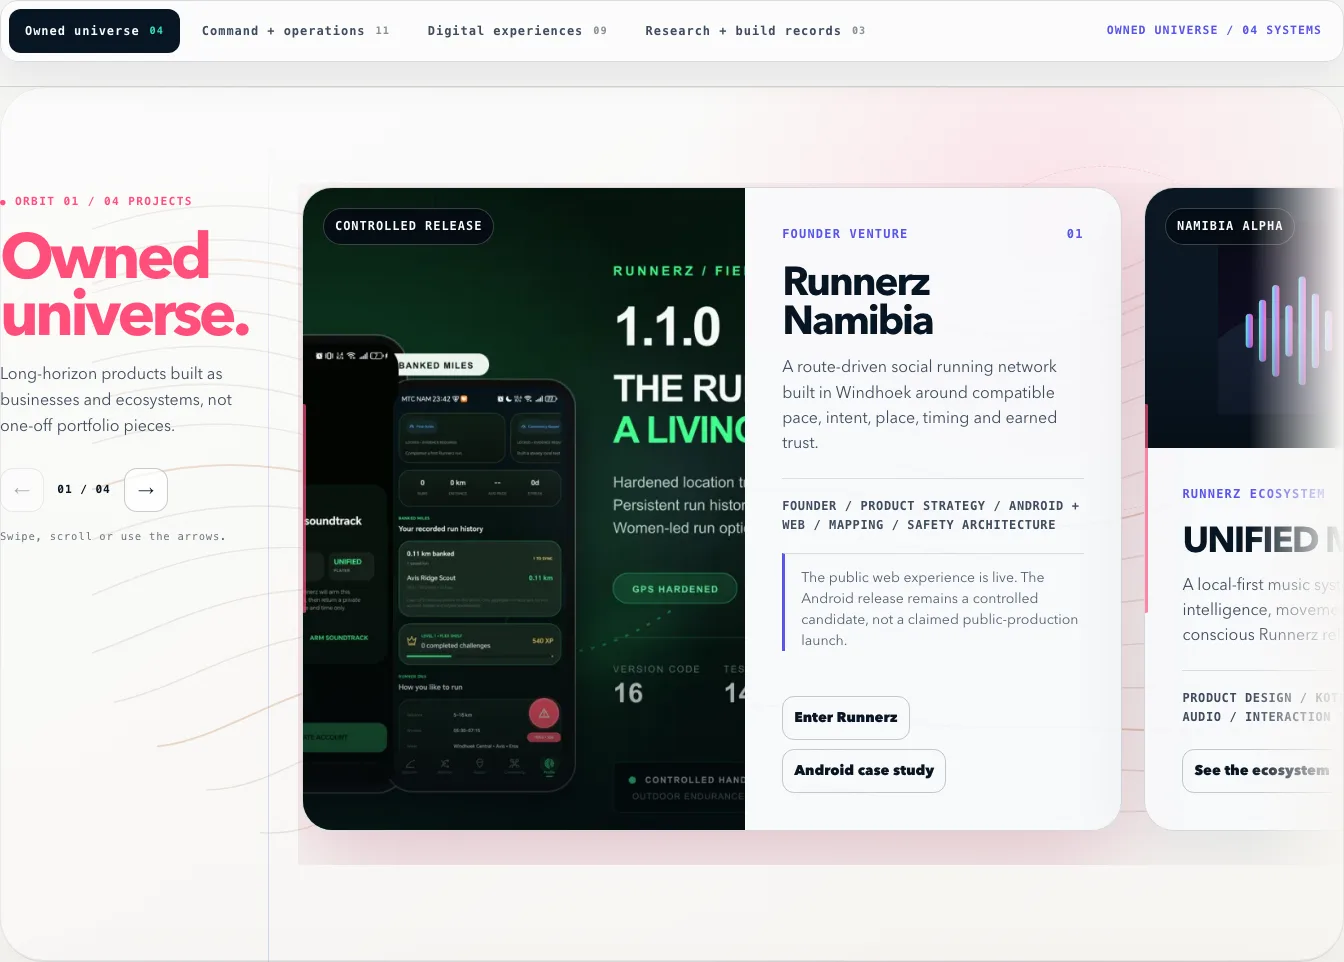
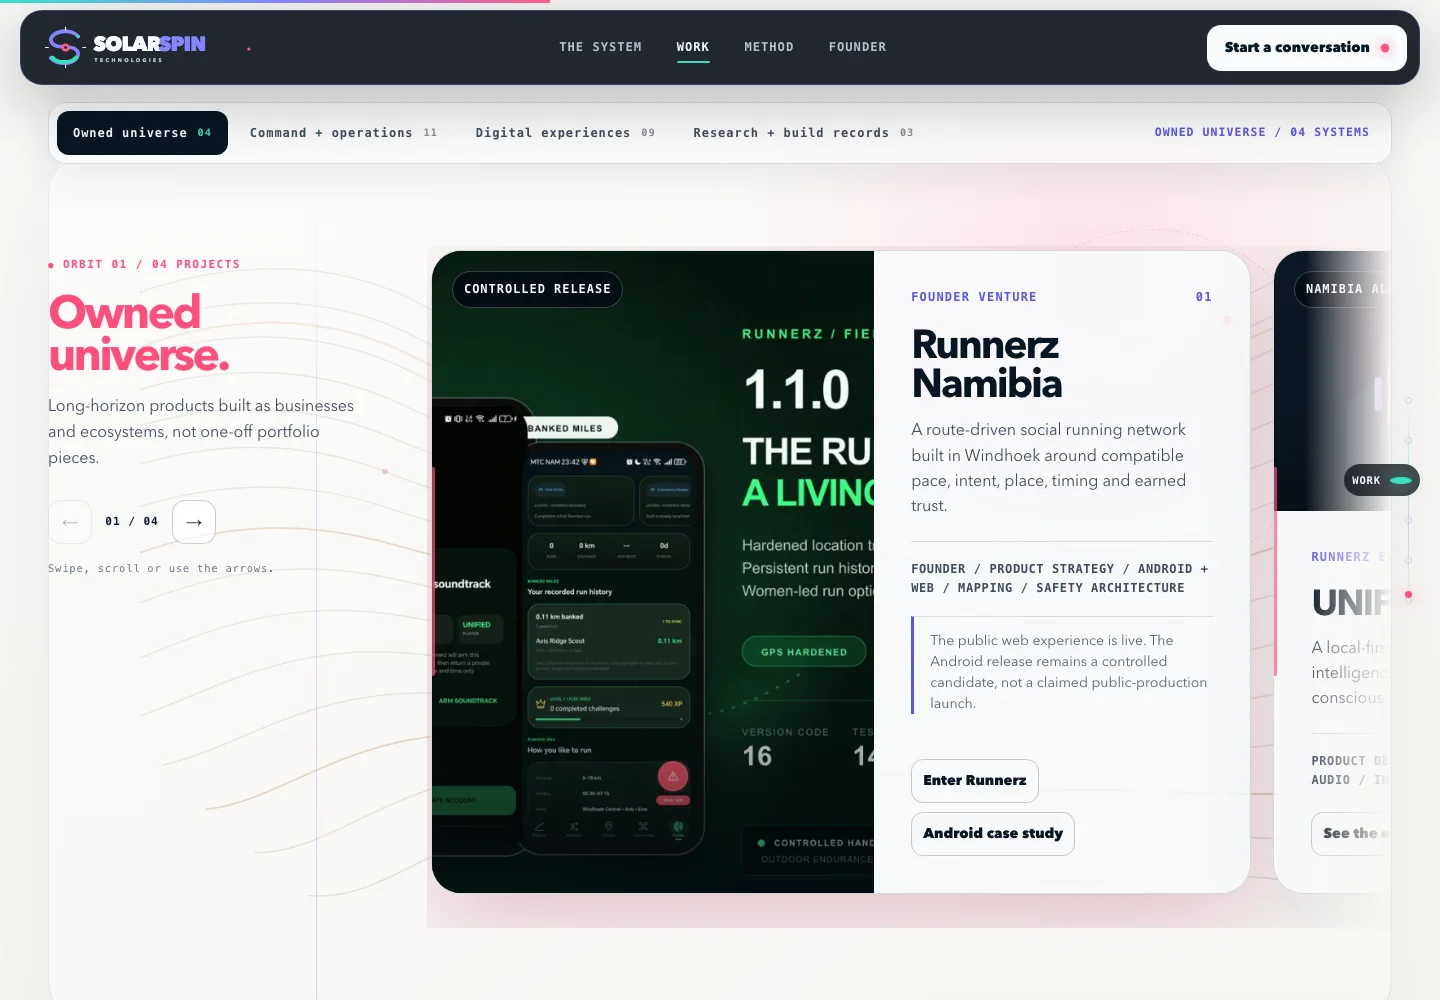
Document ignition and cosmic finale

diff --git a/README.md b/README.md
@@ -36,7 +36,7 @@ The result is a responsive, dependency-free digital experience built around one 
 | Origin | Windhoek, Namibia |
 | Launch | October 2026 |
 | Public work | 27 carefully bounded project stories across four smart orbits |
-| Experience model | Interactive system map, project observatory, method explorer and guided contact pathway |
+| Experience model | Branded ignition, interactive system map, project observatory, guided contact pathway and cosmic-address finale |
 | Runtime | Static HTML, CSS and JavaScript with no framework or runtime dependency |
 | QA coverage | Six responsive profiles from 1440 desktop to 320 mobile, including touch and 844 × 390 landscape |
 | Live site | [solarspin-namibia.pages.dev](https://solarspin-namibia.pages.dev/) |
@@ -47,14 +47,18 @@ The interface treats SolarSpin as a small universe with a clear centre. Research
 
 ![SolarSpin experience architecture diagram](assets/experience-system.svg)
 
-The experience moves through six chapters:
+A short branded ignition opens eight chapters:
 
 1. **The centre:** a live orbital hero introduces the company promise.
 2. **The system:** a relationship map explains how founder, company, ventures, client work, research and internal systems connect.
-3. **The proof:** project cards make the public work inspectable, including its real release boundaries.
-4. **The method:** a five-stage rail shows how SolarSpin moves from field evidence to a system that can be handed over.
-5. **The founder:** Freeman's reason for building the company becomes part of the product story.
-6. **The invitation:** visitors identify the problem they are carrying before they make contact.
+3. **The capabilities:** four disciplines turn the promise into a practical offer.
+4. **The proof:** project cards make the public work inspectable, including its real release boundaries.
+5. **The method:** a five-stage rail shows how SolarSpin moves from field evidence to a system that can be handed over.
+6. **The founder:** Freeman's reason for building the company becomes part of the product story.
+7. **The invitation:** visitors identify the problem they are carrying before they make contact.
+8. **The cosmic address:** the journey resolves from the Milky Way to Windhoek, then signs off with one final branded beat.
+
+![SolarSpin's short Igniting the System opening sequence](assets/screenshots/ignition-intro.webp)
 
 ## A visual language with purpose
 
@@ -87,15 +91,27 @@ The Field Atlas layer is connected to the interface rather than running as a sep
 - decorative layers are paint-contained, pointer-inert and removed from forced-colors mode; coarse-pointer layouts also shed selected blur effects
 - reduced-motion mode stops the continuous field animations instead of merely slowing them down
 
+![SolarSpin interactive cosmic address beginning at the Milky Way](assets/screenshots/cosmic-address.webp)
+
+The footer is now a final interactive chapter. Six keyboard-addressable stops trace the public origin story from the Milky Way through the Solar System, Earth, Africa and Namibia to Windhoek. The visual and readout change together, while the route remains understandable as labelled controls and text.
+
 ![SolarSpin footer with a live Windhoek CAT clock, coordinates and transmission status](assets/screenshots/windhoek-transmission.webp)
 
-The footer closes the journey with a live Windhoek transmission: current Central Africa Time, the WHK.NA coordinate marker and a restrained system-status signal. Its clock is informative but not required for navigation or contact.
+The address resolves into a live Windhoek transmission: current Central Africa Time, the WHK.NA coordinate marker and a restrained system-status signal. The clock is informative but not required for navigation or contact.
+
+![The final SolarSpin Experience closing statement](assets/screenshots/experience-finale.webp)
+
+The final panel does not introduce another task. It simply lands the journey with the line: **“You’ve now had a SolarSpin Experience.”**
 
 Verification grew with the visual system. The automated record now covers six responsive profiles: 1440 desktop, 768 tablet, touch mobile at 390, 360 and 320 pixels, and an 844 × 390 touch landscape run. Separate checks confirm horizontal rail movement without blocking vertical touch scrolling, zero continuing infinite animations under reduced motion, visible essentials and zero overflow in forced-colors mode, and the full 27-project/four-orbit experience with fallback navigation and email when JavaScript is unavailable.
 
 ## The interface behaves like the company
 
 The website does not make visitors read a long manifesto before they understand SolarSpin. Each important idea can be touched, navigated or explored.
+
+### Branded ignition
+
+The experience opens with a 1.48-second, pointer-inert ignition built from the SolarSpin badge, orbit lines, Windhoek coordinates and a clear progress signal. It releases the page automatically and is skipped entirely when reduced motion is requested, forced colours are active or JavaScript is unavailable.
 
 ### Orbital hero
 
@@ -127,11 +143,16 @@ The method rail turns a delivery philosophy into five inspectable decisions: Fie
 
 Instead of opening with a blank form, the final interaction asks what kind of problem the visitor is carrying. The selected path shapes the prompt and the resulting email subject. The visitor arrives at contact with a clearer starting point.
 
+### Cosmic address and closing beat
+
+The cosmic address behaves as a six-stop tab sequence with a shared visual and textual readout. Arrow-key movement, Home and End support, selected-state exposure and full-size touch controls make the interaction inspectable beyond its animation. The finale that follows is static, readable content rather than another gate.
+
 ## Motion with an off switch
 
 Motion gives the experience character, but it is never required to reach the content.
 
 - a canvas particle field establishes depth in the hero
+- a short badge-and-orbit ignition establishes the brand, then releases the interface
 - orbital nodes and satellites make system relationships visible
 - reveal sequences establish reading order
 - project cards tilt only on capable pointer devices
@@ -140,7 +161,8 @@ Motion gives the experience character, but it is never required to reach the con
 - magnetic controls add tactile feedback to high-value actions
 - the header, progress signal and navigation react to position
 - the legacy seal opens a focused founder note
-- `prefers-reduced-motion` removes the canvas and reveal dependency
+- cosmic-address layers transition only when a visitor changes the selected stop
+- `prefers-reduced-motion` removes the ignition, canvas and reveal dependency
 - essential content remains available when JavaScript is disabled
 - animation pauses when the document is not visible
 - chapter animation remains paused until its own section is in view
@@ -159,6 +181,10 @@ Motion gives the experience character, but it is never required to reach the con
 
 The mobile experience is recomposed around a vertical rhythm. The hero separates the promise from the orbital control. Navigation becomes an intentional orbit menu. Touch targets expand, supporting copy gets more room, and the founder chapter keeps its editorial impact at 390, 360 and 320 pixels as well as short landscape viewports.
 
+![SolarSpin mobile Project Observatory with its active orbit control and unobscured heading](assets/screenshots/project-orbit-mobile.webp)
+
+The Project Observatory fix is explicit: selecting an orbit scrolls its active control into view, places the orbit heading below the fixed navigation stack and keeps the heading inside its column at every tested width. The mobile menu still closes on Escape and restores page scrolling.
+
 The result was checked for horizontal overflow across all six responsive profiles. Every recorded run, including 320-pixel mobile and 844 × 390 landscape, reported zero overflow.
 
 ## Accessibility and resilience
@@ -171,8 +197,10 @@ The release includes:
 - semantic buttons for interactive controls
 - `aria-pressed`, `aria-selected`, `aria-expanded` and named navigation regions
 - live status text for hero orbit, architecture, method and pathway changes, plus visible project-rail position
+- a shared textual readout for the selected cosmic-address stop
 - Escape-key support for menus and the founder dialog
-- reduced-motion handling
+- keyboard navigation for the method and cosmic-address tab sequences
+- reduced-motion handling that skips the ignition and stops continuing loops
 - forced-colors handling that removes non-essential scenery and preserves the core chapters
 - meaningful image alternatives and hidden decorative imagery
 - a JavaScript-free shortcut route and visible essential content
@@ -213,10 +241,11 @@ That small architecture keeps the company experience portable and easy to hand o
 | Missing images | None in the recorded QA run |
 | Responsive profiles | Six passed: 1440, 768, 390, 360, 320 and 844 × 390 landscape |
 | Horizontal overflow | Zero in all six responsive profiles, forced-colors mode and no-JavaScript mode |
-| Mobile navigation | Passed |
+| Intro release | Hidden, transparent and pointer-inert after the short ignition; skipped for reduced motion and no JavaScript |
+| Mobile navigation and orbit headings | Menu open/close passed; active orbit controls remained visible and headings reported zero overflow or fixed-header obstruction |
 | Touch and Project Observatory | 27 cards, four orbits, deep links, rail controls, horizontal touch movement and vertical page scrolling passed |
-| Interactive readouts | Passed |
-| Performance guardrails | 976 DOM nodes, at most eight backdrop filters and 2,124,942 initial transfer bytes in the recorded run |
+| Interactive readouts | Hero, architecture, method, pathway and six-stop cosmic address passed, including keyboard state changes |
+| Performance guardrails | 1,099 DOM nodes, at most eight backdrop filters, 2,144,317 initial transfer bytes and at most nine simultaneous infinite animations in the recorded run |
 | Reduced-motion mode | Essential content visible, canvas disabled and zero infinite animations continuing |
 | Forced-colors mode | Essential content visible with zero horizontal overflow |
 | JavaScript-disabled mode | 27 projects and four orbits visible, with fallback navigation and direct email |
@@ -258,8 +287,12 @@ This repository is deliberately separate from the private production repository.
 - [`assets/experience-system.svg`](assets/experience-system.svg) explains the experience architecture.
 - [`assets/design-language.svg`](assets/design-language.svg) records the colour and visual roles.
 - [`assets/screenshots`](assets/screenshots) contains selected, compressed QA evidence.
+- [`assets/screenshots/ignition-intro.webp`](assets/screenshots/ignition-intro.webp) records the short branded opening.
 - [`assets/screenshots/field-atlas.webp`](assets/screenshots/field-atlas.webp) records the new orbit terrain treatment.
+- [`assets/screenshots/project-orbit-mobile.webp`](assets/screenshots/project-orbit-mobile.webp) records the corrected mobile orbit landing and navigation state.
+- [`assets/screenshots/cosmic-address.webp`](assets/screenshots/cosmic-address.webp) records the Milky Way-to-Windhoek address sequence.
 - [`assets/screenshots/windhoek-transmission.webp`](assets/screenshots/windhoek-transmission.webp) records the live-location footer treatment.
+- [`assets/screenshots/experience-finale.webp`](assets/screenshots/experience-finale.webp) records the final branded sign-off.
 - [`docs/visual-system.md`](docs/visual-system.md) documents the design system.
 - [`docs/interaction-architecture.md`](docs/interaction-architecture.md) explains progressive interaction and technical choices.
 - [`docs/accessibility-and-qa.md`](docs/accessibility-and-qa.md) records accessibility and verification scope.
@@ -277,5 +310,7 @@ Run the local verification:
 This case study and the experience it documents were designed and delivered by **[SolarSpin Technologies](https://solarspin-namibia.pages.dev/)**, founded by [Freeman Paul Ipumbu](https://freeman-ipumbu.pages.dev/) in Windhoek, Namibia.
 
 The source is private. The thinking is visible. The standard is public.
+
+> **You’ve now had a SolarSpin Experience.**
 
 © 2026 SolarSpin Technologies. See [LICENSE](LICENSE) for the repository terms.

diff --git a/docs/accessibility-and-qa.md b/docs/accessibility-and-qa.md
@@ -24,19 +24,23 @@ The automated run also exercised three separate resilience modes at 390 × 844: 
 - all inspected images complete with natural dimensions
 - no nameless buttons
 - no blank external links missing a relationship declaration
+- the ignition released the interface as hidden, transparent and pointer-inert in every standard profile
+- six cosmic-address controls present, with no undersized or clipped control in any profile
+- no project-orbit or primary section heading overflow in any profile
 - no essential content hidden, no canvas and zero continuing infinite animations in reduced-motion mode
 - essential content visible with zero horizontal overflow in forced-colors mode
 - all 27 projects and four project orbits visible without JavaScript
 - visible fallback navigation and direct email available without JavaScript
-- 976 DOM nodes across the responsive profiles
+- 1,099 DOM nodes across the responsive profiles, below the ceiling of 1,100
 - at most eight active backdrop filters, below the ceiling of 10
-- 2,124,942 initial transfer bytes, below the 4 MiB ceiling
+- 2,144,317 initial transfer bytes, below the 4 MiB ceiling
 - at most nine continuing infinite animations in a standard profile, below the ceiling of 12
 - no decorative Field Atlas layer accepted pointer input
 
 ## Interaction checks
 
 - desktop and mobile navigation
+- project-orbit landing position, active-control visibility and heading containment
 - active section state
 - hero orbit changes
 - architecture-node changes
@@ -45,6 +49,7 @@ The automated run also exercised three separate resilience modes at 390 × 844: 
 - project-rail horizontal movement and retained vertical page scrolling on every touch profile
 - method step activation and keyboard navigation
 - contact pathway updates
+- six-stop cosmic-address selection, readout update and keyboard return to the first stop
 - interaction-driven architecture, method and pathway atmosphere state
 - founder dialog open and close paths
 - local asset resolution
@@ -61,17 +66,19 @@ The DOM order follows the story order. Desktop layout never changes the underlyi
 
 Buttons disclose active, selected and expanded state with ARIA attributes. Shared readouts use live regions where a state change would otherwise be silent.
 
+The cosmic address uses a labelled tablist and a shared tab panel. Its selected control, visual state and textual readout move together, so the animated route is not the only state signal.
+
 ### Keyboard
 
-Interactive controls are native buttons or links. Focus receives a clear mint outline. The skip link becomes visible on focus. Escape closes temporary layers.
+Interactive controls are native buttons or links. Focus receives a clear mint outline. The skip link becomes visible on focus. Escape closes temporary layers. The method and cosmic-address sequences expose Arrow, Home and End keyboard paths.
 
 ### Motion
 
-Reduced-motion preferences remove the hero canvas and reveal gating. They also stop the Field Atlas orbit, packet, signal, radar and badge loops. The recorded reduced-motion run reported zero continuing infinite animations, with the same content present and readable.
+Reduced-motion preferences skip the branded ignition, remove the hero canvas and reveal gating, and stop the Field Atlas orbit, packet, signal, radar and badge loops. The recorded reduced-motion run reported zero continuing infinite animations, with the same content and finale present and readable.
 
 ### Forced colors
 
-Decorative atmospheres, terrain horizons, founder scenery and pathway transmissions are removed under forced colors. Essential panels use system colours and borders. The recorded run kept the hero, work, founder and pathway headings visible with zero horizontal overflow.
+Decorative atmospheres, terrain horizons, founder scenery, pathway transmissions and the cosmic illustration are removed under forced colors. Essential panels, cosmic controls and readouts use system colours and borders. The recorded run kept the hero, work, founder and pathway headings visible with zero horizontal overflow.
 
 ### Performance and pointer isolation
 
@@ -83,6 +90,6 @@ Content imagery carries descriptive alternative text. Decorative fields, lines a
 
 ## Honest boundary
 
-These checks support the quality of this release. They do not constitute independent WCAG certification, assistive-technology coverage across every browser, a formal penetration test or a production performance guarantee. The transfer and animation figures are recorded local-run diagnostics, not field-performance measurements.
+These checks support the quality of this release. They do not constitute independent WCAG certification, assistive-technology coverage across every browser, a formal penetration test or a production performance guarantee. The DOM, transfer, filter and animation figures are recorded local-run diagnostics, not field-performance measurements or Lighthouse results.
 
 Before any major content expansion, SolarSpin should repeat keyboard testing, screen-reader spot checks, contrast verification and performance measurement against the final production payload.

diff --git a/docs/interaction-architecture.md b/docs/interaction-architecture.md
@@ -4,11 +4,15 @@
 
 The website begins as a complete semantic document. JavaScript adds state, motion and responsive behaviour after the content is available. If the enhancement layer fails, the visitor still receives the company story, project evidence, contact route and fallback navigation.
 
+The branded ignition is an optional prelude, not a loading gate. It is hidden from the accessibility tree, never accepts pointer input, releases itself after 1.48 seconds and is omitted for reduced motion, forced colours and no-JavaScript delivery.
+
 ## Experience modules
 
 ### Navigation
 
 The fixed header reflects the active section and collapses into a full-screen orbit menu on smaller viewports. The mobile menu declares its expanded state, closes on Escape and restores page scrolling when dismissed.
+
+The Project Observatory has a second, local navigation layer. When an orbit is selected, its control scrolls fully into view and its heading lands below the fixed header and sticky orbit controls. Automated geometry checks cover both the active control and every project-orbit heading across all six responsive profiles.
 
 ### Hero system
 
@@ -54,9 +58,13 @@ The atmosphere responds to meaningful state changes:
 
 These visual responses mirror information already present in text and control state. They do not create a second route to essential content.
 
-### Windhoek transmission
+### Cosmic address and Windhoek transmission
 
-The footer displays a live `Africa/Windhoek` clock in Central Africa Time beside the WHK.NA coordinate marker and system status. The initial placeholder remains understandable before JavaScript runs, and the clock does not gate any footer link or contact path.
+The footer begins with a six-stop tab sequence: Milky Way, Solar System, Earth, Africa, Namibia and Windhoek. Each selection updates the shared SVG state and a textual readout. The buttons expose selected state, remain at least 44 pixels in both dimensions, stay inside their control group and support Arrow, Home and End keyboard movement.
+
+The decorative route never carries meaning alone. Its title, description, labelled controls and changing text describe the same address. Under forced colours the illustration is removed while those labels and controls remain.
+
+The address resolves into a live `Africa/Windhoek` clock in Central Africa Time beside the WHK.NA coordinate marker and system status. The initial placeholder remains understandable before JavaScript runs, and the clock does not gate any footer link or contact path. A static final panel closes with “You’ve now had a SolarSpin Experience,” so the ending remains present without motion or scripting.
 
 ## Animation and performance guardrails
 
@@ -69,7 +77,7 @@ Input and preference boundaries reduce the effect again:
 - forced-colors mode removes decorative atmospheres and gives essential panels system borders and colours
 - no-JavaScript mode keeps the content, project inventory, fallback navigation and direct email route
 
-The QA harness enforces ceilings of fewer than 1,100 DOM nodes, no more than 10 backdrop filters, less than 4 MiB of initial transferred resources and no more than 12 simultaneous infinite animations. The latest recorded desktop run stayed inside each ceiling at 976 nodes, eight backdrop filters, 2,124,942 bytes and nine infinite animations.
+The QA harness enforces ceilings of fewer than 1,100 DOM nodes, no more than 10 backdrop filters, less than 4 MiB of initial transferred resources and no more than 12 simultaneous infinite animations. The latest recorded desktop run stayed inside each ceiling at 1,099 nodes, eight backdrop filters, 2,144,317 bytes and nine infinite animations. These are local-run guardrails, not field-performance scores.
 
 ## Runtime
 
@@ -79,12 +87,14 @@ index.html
     ├── styles.css
     │     ├── responsive composition
     │     ├── interaction states
-    │     └── reduced-motion overrides
+    │     ├── short ignition and finale composition
+    │     └── motion and forced-colors overrides
     │
     ├── app.js
     │     ├── navigation state
     │     ├── component readouts
     │     ├── project-observatory, atmosphere and pathway logic
+    │     ├── cosmic-address state
     │     ├── Windhoek transmission time
     │     └── decorative motion
     │

diff --git a/docs/visual-system.md b/docs/visual-system.md
@@ -77,3 +77,9 @@ SolarSpin motion uses two curves:
 Continuous animation is reserved for atmosphere and orbital meaning. Content movement is short and settles quickly. Reduced-motion users receive the same hierarchy without the field or reveal dependency.
 
 Ambient motion is also section-scoped. Orbits, packets, signals and related loops remain paused until their chapter enters the live viewport state. Inside the Project Observatory, only the current orbit runs its decorative loops. This keeps the cinematic layer local to the visitor's attention instead of animating the whole document at once.
+
+## Branded bookends
+
+The opening and closing use the same identity without repeating the same composition. The 1.48-second ignition isolates the circular SolarSpin badge, two orbit lines, one travelling pulse and a Windhoek readout against Gravity Deep. It is intentionally brief and optional.
+
+At the other end, the cosmic address expands that visual grammar into six scales of place. Mint signals progress, orbit violet marks the active route and pulse pink identifies the final lock. The closing statement then removes the controls and leaves one oversized editorial sentence: “You’ve now had a SolarSpin Experience.” This makes the ending feel earned without asking for one more interaction.

diff --git a/docs/publication-boundary.md b/docs/publication-boundary.md
@@ -27,7 +27,7 @@ SolarSpin's website is a public company experience, but its production repositor
 
 ## Project claims
 
-The screenshots record the October 2026 release, including the cinematic Field Atlas enhancement and its Windhoek transmission footer. The live site can continue to evolve after this case study is published.
+The screenshots record the October 2026 release, including the short branded ignition, corrected Project Observatory navigation and heading composition, cinematic Field Atlas, interactive Milky Way-to-Windhoek address, live Windhoek transmission and final SolarSpin Experience sign-off. The live site can continue to evolve after this case study is published.
 
 References to accessibility describe implementation decisions and an automated QA run. They are not a claim of formal certification.
 
